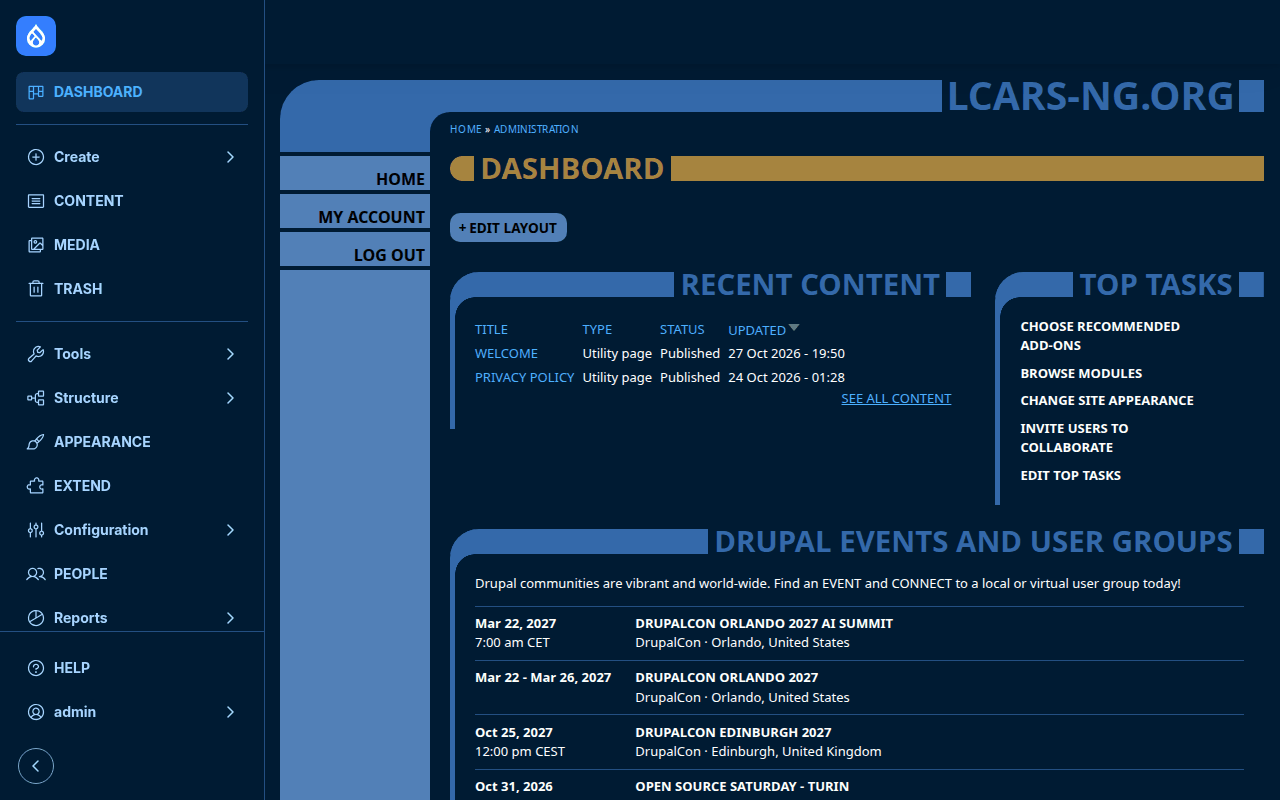
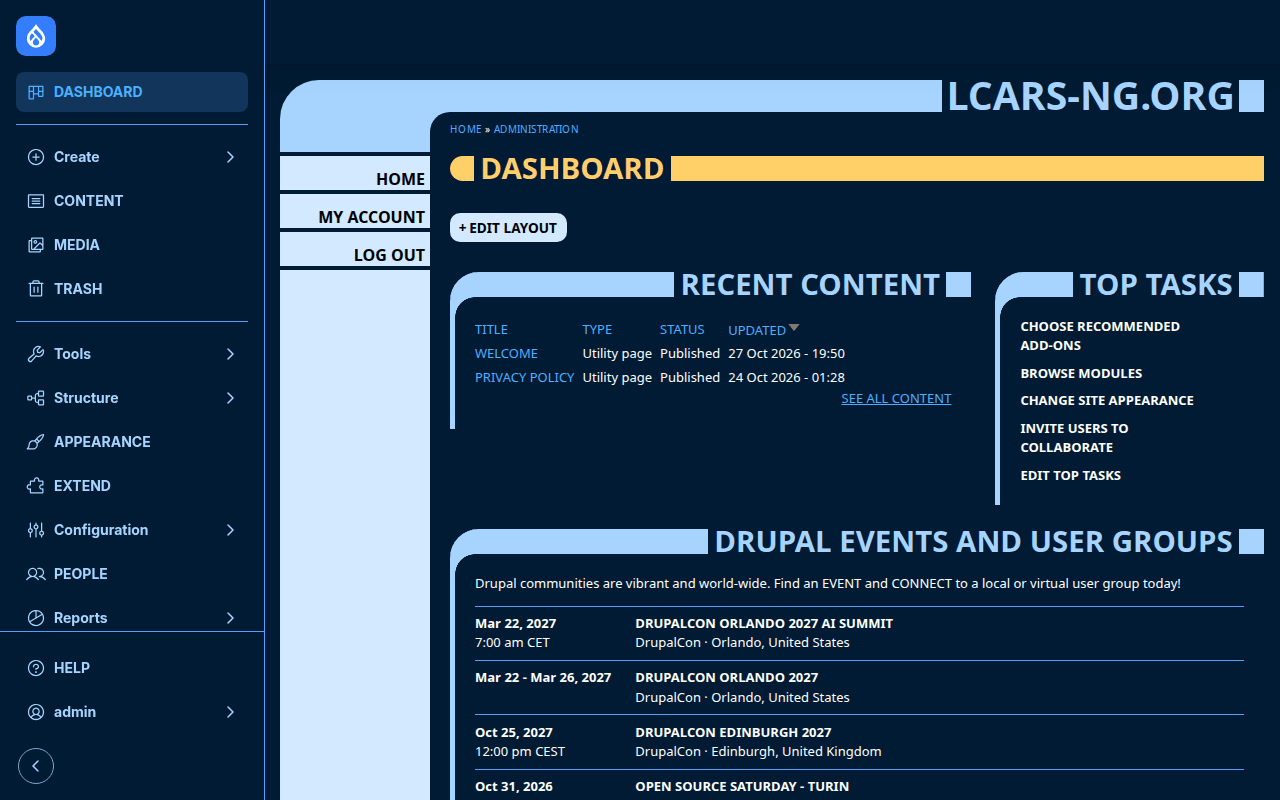
Show the screenshots of the README with the contrast setting High

Changed region(s): [[0.2188, 0.0938, 1.0, 1.0]]

diff --git a/README.md b/README.md
@@ -16,8 +16,8 @@ pages scroll. It follows the settings of the system for more contrast,
 contrast themes and reduced motion.
 
 <p>
-  <a href="images/screenshots/front-page.png"><img src="images/screenshots/front-page.png" width="49%" alt="LCARS-NG front page for signed-in users, with the collapsed Navigation of Drupal on the left and its top bar: upper panel with site name, slogan and logo, status line with date and user, menu buttons on the left, content and panels below"></a>
-  <a href="images/screenshots/dashboard.png"><img src="images/screenshots/dashboard.png" width="49%" alt="The dashboard in LCARS-NG: cards for recent content and top tasks, below them the Drupal events as an agenda"></a>
+  <a href="images/screenshots/front-page.png"><img src="images/screenshots/front-page.png" width="49%" alt="LCARS-NG front page for signed-in users with the contrast setting High, with the collapsed Navigation of Drupal on the left and its top bar: upper panel with site name, slogan and logo, status line with date and user, menu buttons on the left, content and panels below"></a>
+  <a href="images/screenshots/dashboard.png"><img src="images/screenshots/dashboard.png" width="49%" alt="The dashboard in LCARS-NG with the contrast setting High: cards for recent content and top tasks, below them the Drupal events as an agenda"></a>
 </p>
 
 - To see the theme on a live site, visit the
